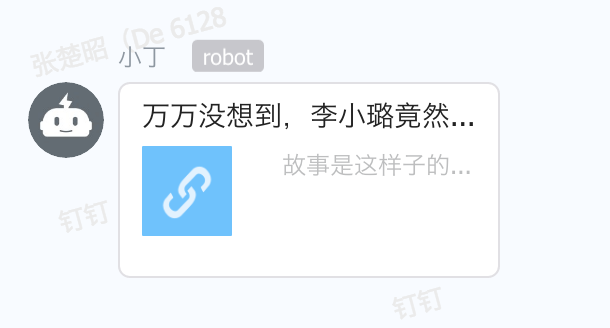
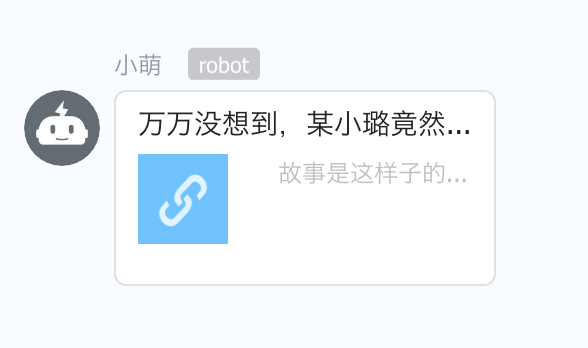
add MANIFEST.in file

diff --git a/dingtalkchatbot/chatbot_test.py b/dingtalkchatbot/chatbot_test.py
@@ -31,7 +31,7 @@ class TestDingtalkChatbot(unittest.TestCase):
 
     def test_send_link(self):
         """测试发送链接消息函数"""
-        result = self.xiaoding.send_link(title='万万没想到，李小璐竟然...', text='故事是这样子的...', message_url='http://www.kwongwah.com.my/?p=454748", pic_url="https://pbs.twimg.com/media/CEwj7EDWgAE5eIF.jpg')
+        result = self.xiaoding.send_link(title='万万没想到，某小璐竟然...', text='故事是这样子的...', message_url='http://www.kwongwah.com.my/?p=454748", pic_url="https://pbs.twimg.com/media/CEwj7EDWgAE5eIF.jpg')
         self.assertEqual(result['errcode'], 0)
 
     def test_send_markdown(self):

diff --git a/dingtalkchatbot/samples.py b/dingtalkchatbot/samples.py
@@ -21,7 +21,7 @@ if __name__ == '__main__':
     xiaoding.send_text(msg='我就是小丁，小丁就是我！', at_mobiles=at_mobiles)
 
     # link
-    xiaoding.send_link(title='万万没想到，李小璐竟然...', text='故事是这样子的...', message_url='http://www.kwongwah.com.my/?p=454748", pic_url="https://pbs.twimg.com/media/CEwj7EDWgAE5eIF.jpg')
+    xiaoding.send_link(title='万万没想到，某小璐竟然...', text='故事是这样子的...', message_url='http://www.kwongwah.com.my/?p=454748", pic_url="https://pbs.twimg.com/media/CEwj7EDWgAE5eIF.jpg')
 
     # markdown
     # 1、提醒所有人

diff --git a/setup.py b/setup.py
@@ -3,7 +3,6 @@
 # create time: 13/01/2018 20:41
 import io
 from setuptools import setup
-from dingtalkchatbot import __version__
 
 with io.open("README.rst", encoding='utf-8') as f:
     long_description = f.read()
@@ -13,7 +12,7 @@ with io.open("requirements.txt", encoding='utf-8') as f:
 
 setup(
     name="DingtalkChatbot",
-    version=__version__,
+    version="1.1.2",
     description="DingtalkChatbot is a Python wrapper tool for dingtalk custom chatbot messages.",
     long_description=long_description,
     author="Devin Zhang",
